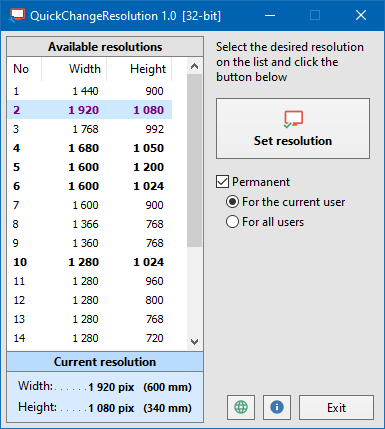
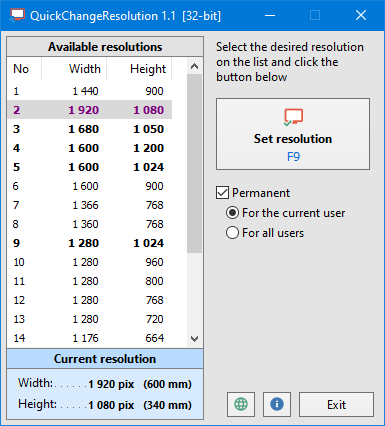
New release: updated version info and readme

diff --git a/Readme.md b/Readme.md
@@ -1,14 +1,14 @@
-# QuickChangeResolution
+# QuickChangeResolution
 
-- [QuickChangeResolution](#quickchangeresolution)
-  - [Overview](#overview)
-  - [Screenshot](#screenshot)
-  - [Download](#download)
-  - [Run-time parameters](#run-time-parameters)
-  - [License](#license)
-  - [Note](#note)
-  - [Compilation](#compilation)
-  - [Releases](#releases)
+* [QuickChangeResolution](#quickchangeresolution)
+  * [Overview](#overview)
+  * [Screenshot](#screenshot)
+  * [Download](#download)
+  * [Run-time parameters](#run-time-parameters)
+  * [License](#license)
+  * [Note](#note)
+  * [Compilation](#compilation)
+  * [Releases](#releases)
 
 ## Overview
 
@@ -20,18 +20,19 @@
 
 ## Download
 
-Source: https://github.com/jackdp/Quick-Change-Resolution  
-Compiled binaries (Windows 32 and 64-bit): https://www.pazera-software.com/products/quick-change-resolution/
+Source: <https://github.com/jackdp/Quick-Change-Resolution>  
+Compiled binaries (Windows 32 and 64-bit): <https://www.pazera-software.com/products/quick-change-resolution/>
 
 ## Run-time parameters
 
-| Parameter                   | Description                                                            |
-|-----------------------------|------------------------------------------------------------------------|
-| `-lo`, `--list-options`     | Lists available options (parameters).                                  |
-| `-lr`, `--list-resolutions` | Lists available resolutions.                                           |
-| `-r`, `--set-resolution`    | Sets the given resolution.                                             |
-| `-u`, `--user`              | Writes a new resolution to the system registry (for the current user). |
-| `-a`, `--all`               | Writes a new resolution to the system registry (for all users).        |
+|        Parameter         |                                                 Description                                                  |
+| ------------------------ | ------------------------------------------------------------------------------------------------------------ |
+| `-r`, `--set-resolution` | Sets the given resolution.                                                                                   |
+| `-u`, `--user`           | Writes a new resolution to the system registry (for the current user).                                       |
+| `-a`, `--all`            | Writes a new resolution to the system registry (for all users).                                              |
+| `--home`                 | Open program home page in the default browser.                                                               |
+| `--github`               | Open source code repository on the GitHub.                                                                   |
+| `-h`, `--help`           | Lists the available options, current resolution, and a list of resolutions supported by the current monitor. |
 
 **Examples**
 
@@ -56,14 +57,22 @@ You need [Delphi XE2](https://www.embarcadero.com/products/delphi) or newer (the
 
 You also need to install the following packages/components:
 
-- JPLib: https://github.com/jackdp/JPLib
-- JPPack: https://github.com/jackdp/JPPack
-- JPModLib: https://github.com/jackdp/JPModLib
-- JVCL: https://github.com/project-jedi/jvcl
-- DzHTMLText2: https://github.com/jackdp/DzHTMLText2
+* JPLib: <https://github.com/jackdp/JPLib>
+* JPPack: <https://github.com/jackdp/JPPack>
+* JPModLib: <https://github.com/jackdp/JPModLib>
+* JVCL: <https://github.com/project-jedi/jvcl>
+* DzHTMLText2: <https://github.com/jackdp/DzHTMLText2>
 
 To compile, just open `src/QuickChangeRes.dproj` file in Delphi, than select menu **Project** -> **Build**.
 
 ## Releases
 
-2021.03.19 - Version 1.0
+### Version 1.1 - 2021.10.13
+
+* Displaying more detailed information when the program is run from the command line (thanks to [RicoLeNecro](https://github.com/RicoLeNecro)).
+* Correcting the position of the main window so that it is visible after changing the resolution and after starting the program (thanks to RicoLeNecro).
+* Added `F9` hotkey to change resolution.
+
+### Version 1.0 - 2021.03.19
+
+First release
